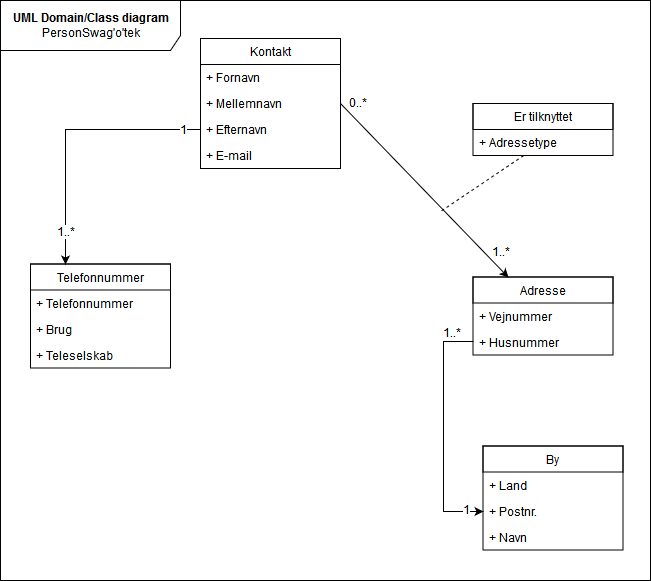
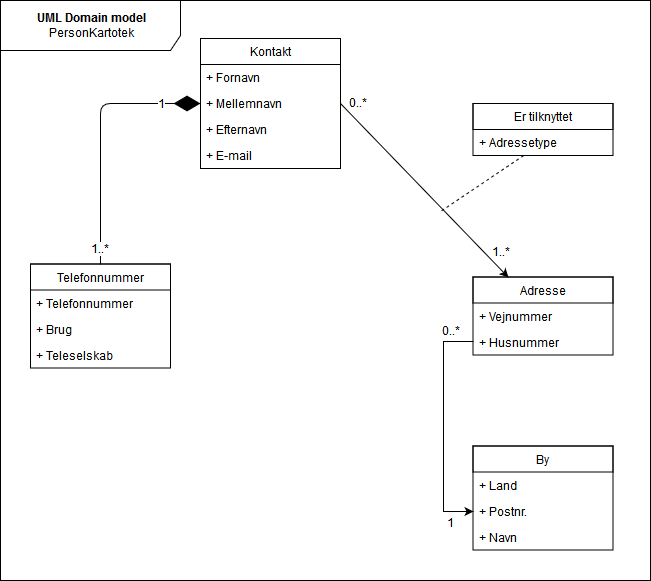
Edit domain model and ERD

diff --git a/F18I4DABH2Gr22/DocumentDb/Program.cs b/F18I4DABH2Gr22/DocumentDb/Program.cs
@@ -30,11 +30,8 @@ namespace DocumentDb
             db.Initialize();
             
 
-
+            db.CreateItem(contact);
             
-            
-
-
             
             Console.ReadKey();
         }
